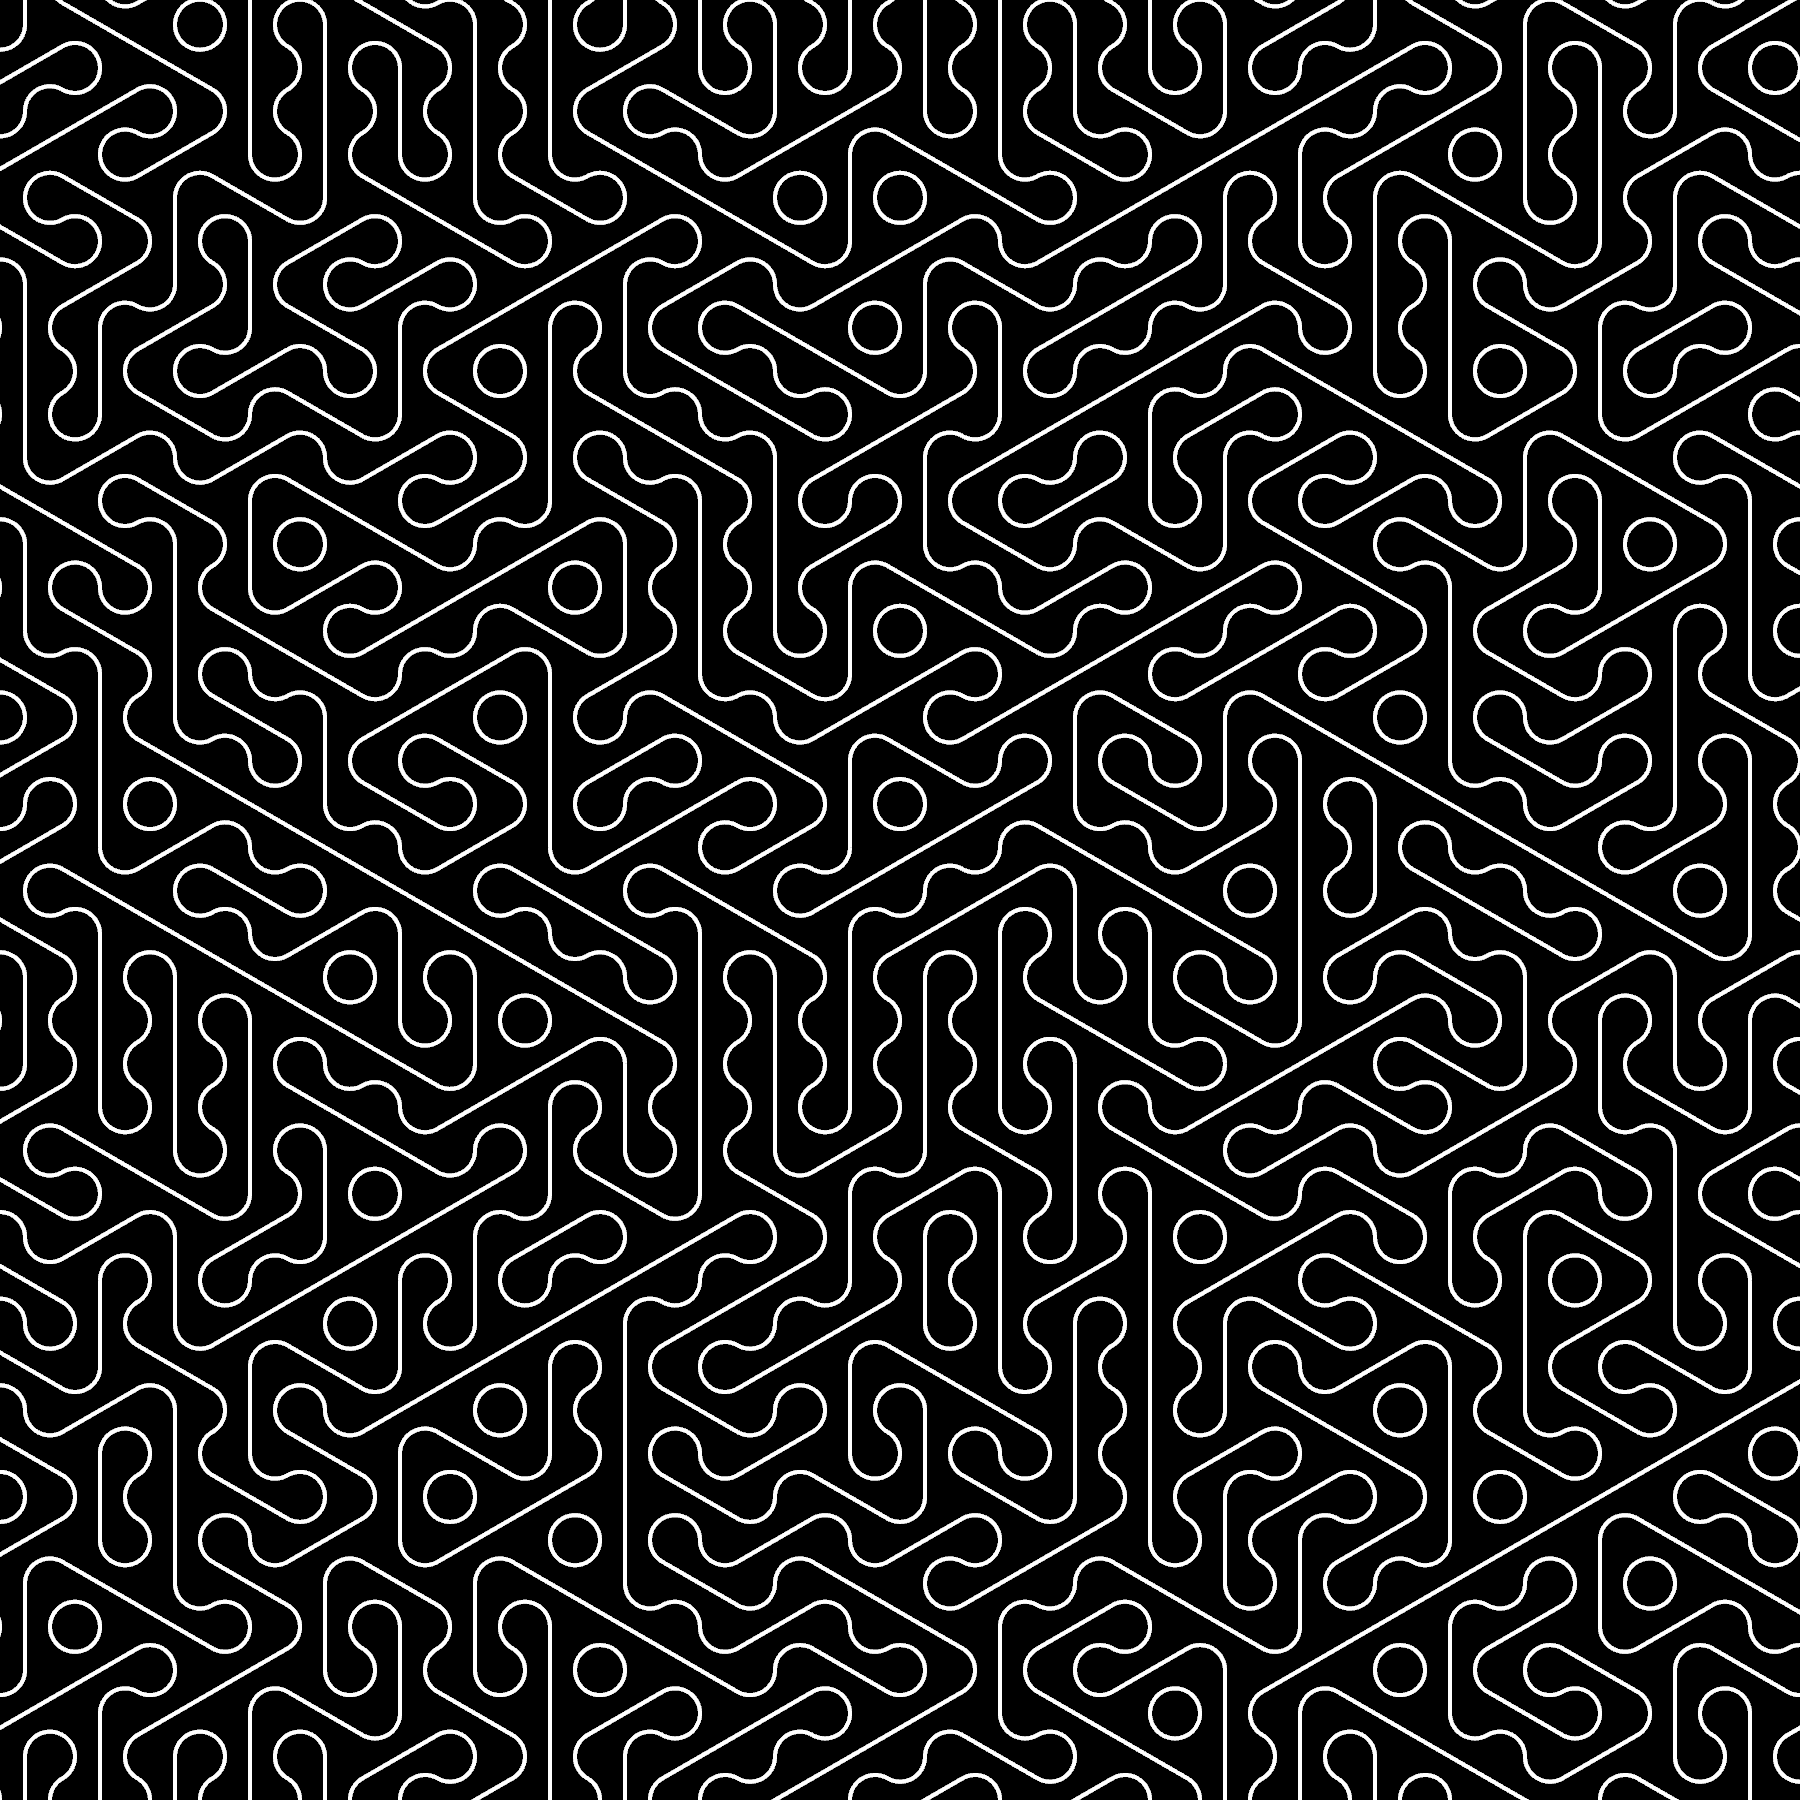
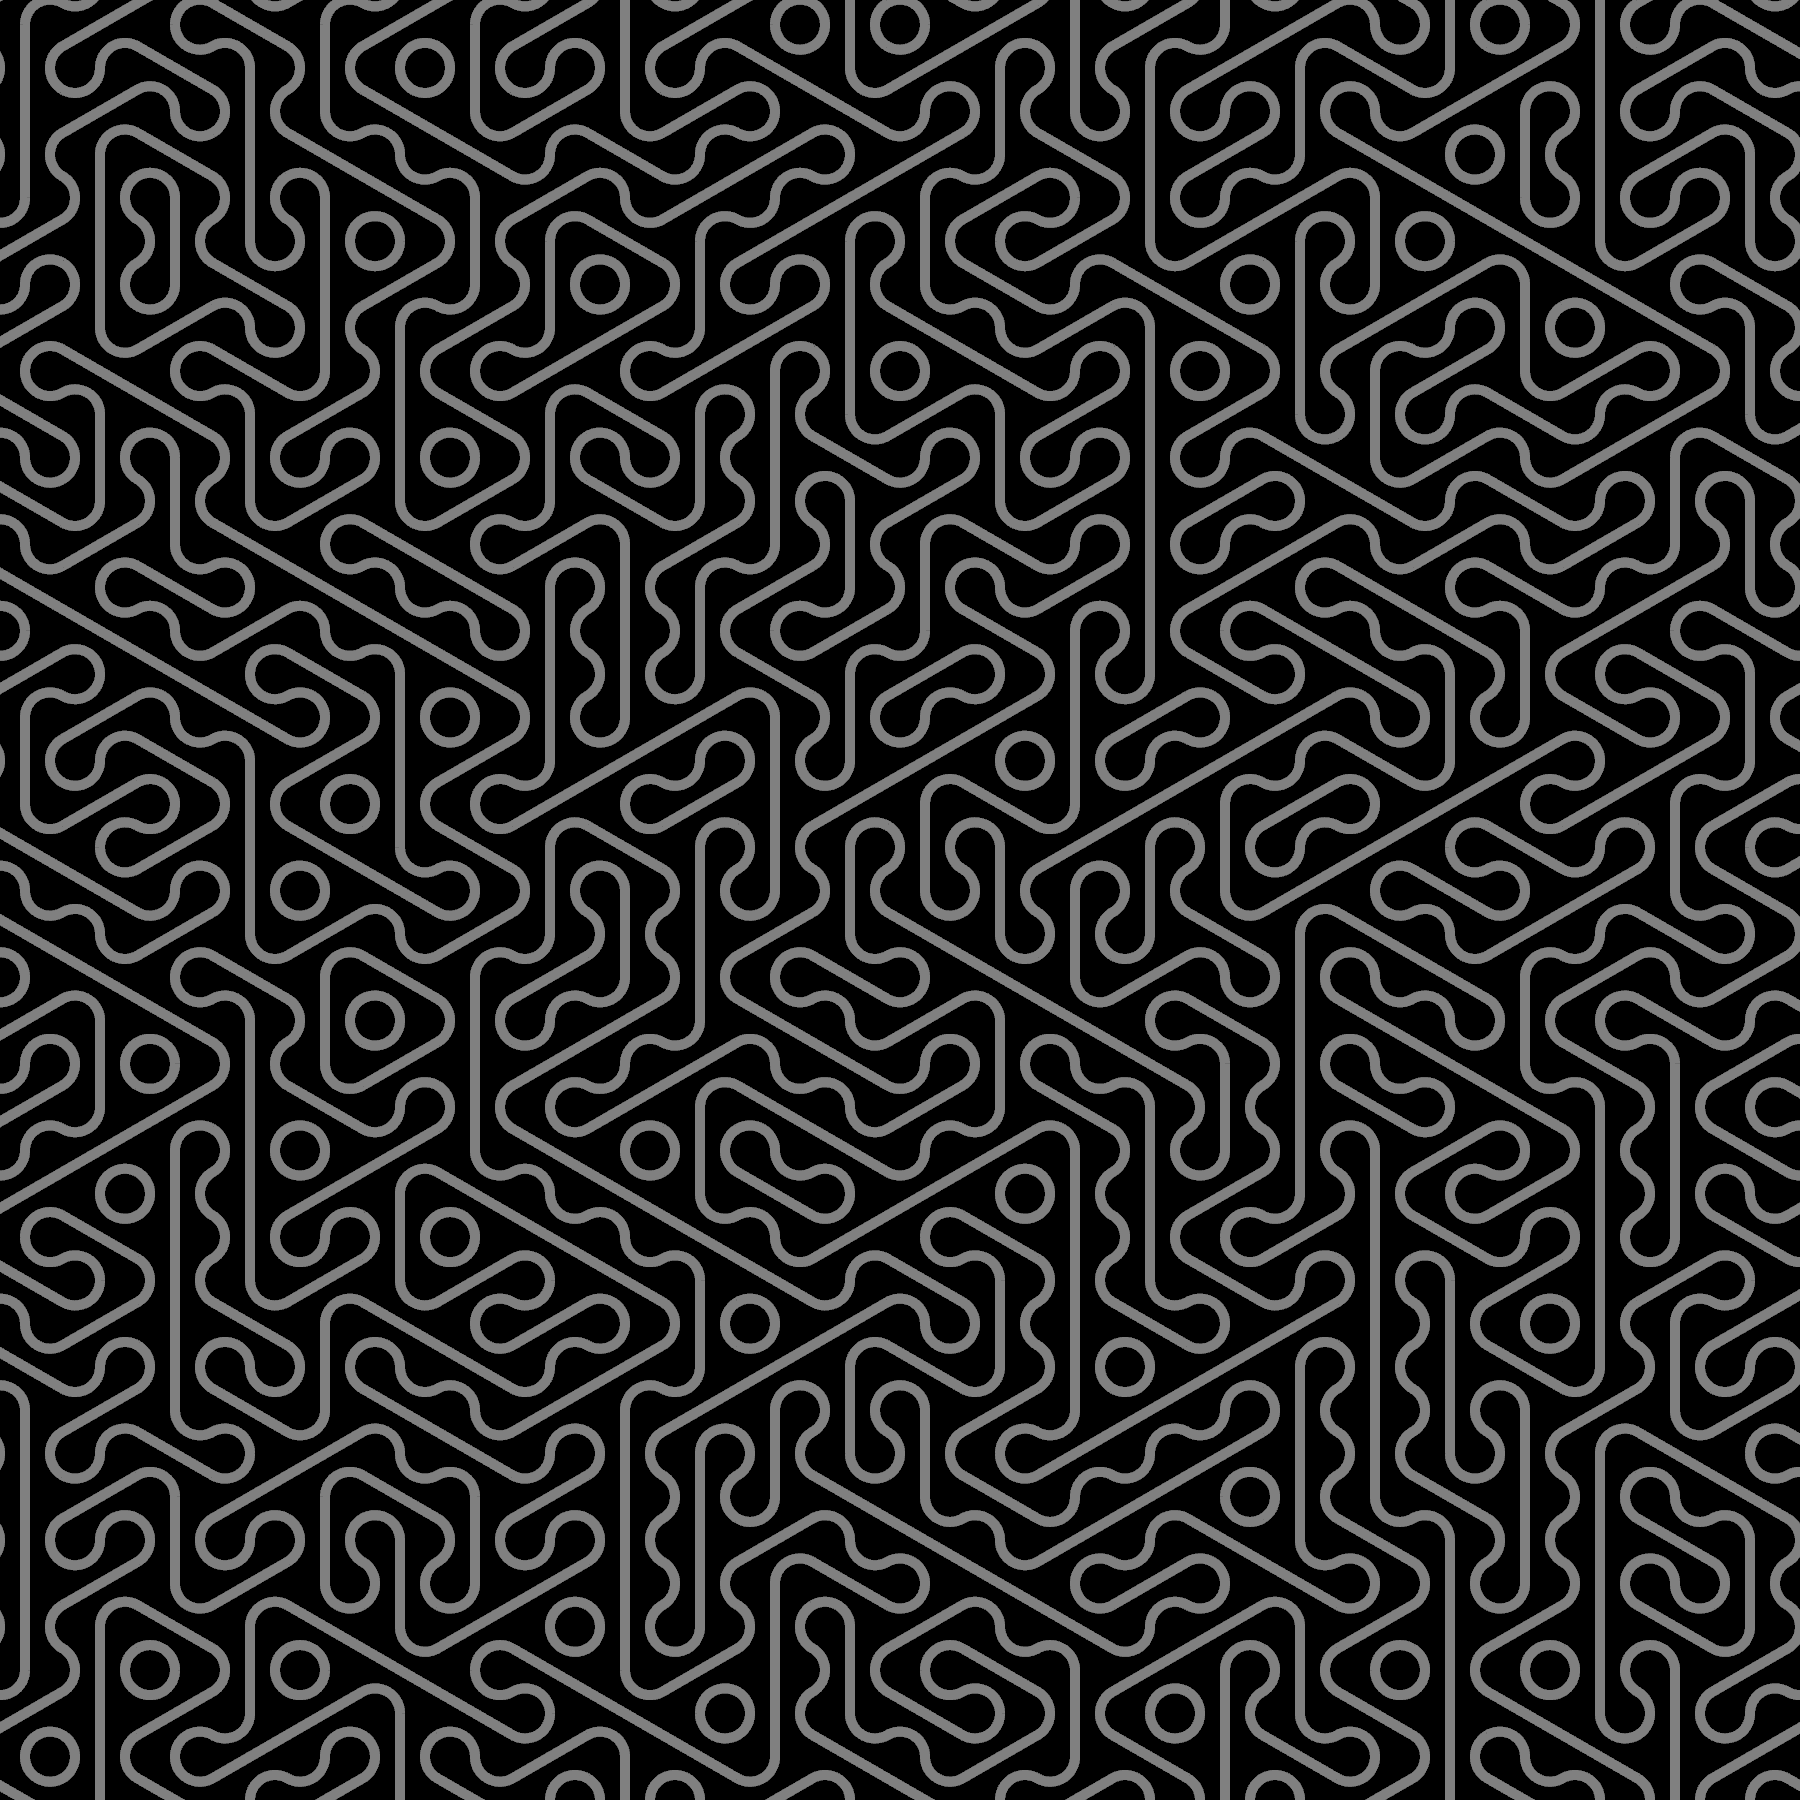
improve hexvar

diff --git a/src/bin/hexvar.rs b/src/bin/hexvar.rs
@@ -45,10 +45,10 @@ fn view(app: &App, frame: Frame) {
             let d = d.rotate(angle);
             d.line()
                 .points(pt2(0.0, -h), pt2(0.0, h))
-                .color(WHITE)
-                .stroke_weight(2.0);
-            arc(&d, 300.0, 120.0, SIZE / 2.0, WHITE, 2.0).x_y(-SIZE, 0.0);
-            arc(&d, 120.0, 120.0, SIZE / 2.0, WHITE, 2.0).x_y(SIZE, 0.0);
+                .color(GRAY)
+                .stroke_weight(5.0);
+            arc(&d, 300.0, 120.0, SIZE / 2.0, GRAY, 5.0).x_y(-SIZE, 0.0);
+            arc(&d, 120.0, 120.0, SIZE / 2.0, GRAY, 5.0).x_y(SIZE, 0.0);
         }
     }
     if png {
